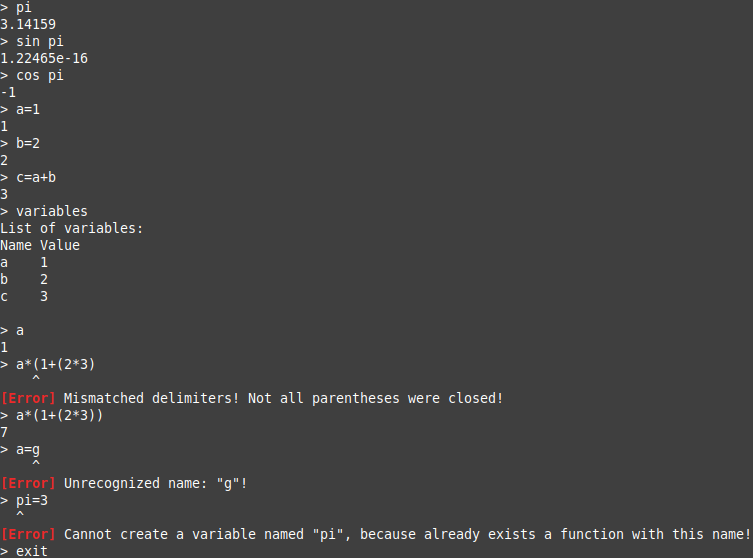
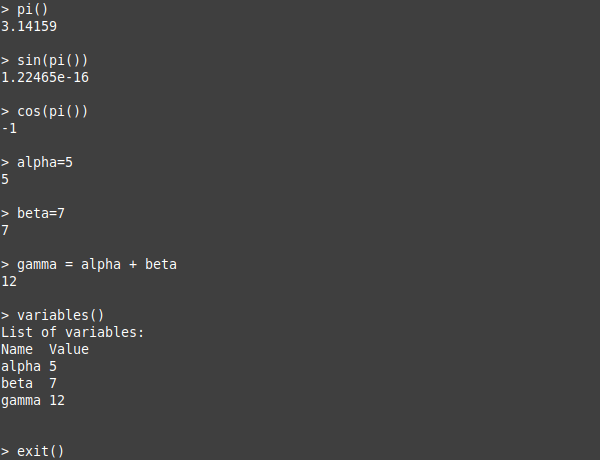
(#9) Requesting that all functions be invoked using parentheses!

Changed region(s): [[0.0, 0.0, 0.66, 0.913], [0.0, 0.9435, 1.0, 1.0], [0.24, 0.5478, 0.3, 0.6087]]

diff --git a/src/parser.c b/src/parser.c
@@ -56,7 +56,7 @@ void destroy_parser(struct Parser *const parser) {
     allocator_delete(&parser->nodes);
 }
 
-int64_t new_node(struct Parser *const parser, const struct Token tok) {
+static int64_t new_node(struct Parser *const parser, const struct Token tok) {
     int64_t index = allocator_new(&parser->nodes);
     struct Token_Node *const node = allocator_get(parser->nodes, index);
     *node = (struct Token_Node){
@@ -113,10 +113,6 @@ static int get_op_precedence(const char op) {
 }
 
 static inline bool check_parser_right_error(struct Parser *const parser, const int64_t previous_idx, const int64_t current_idx) {
-    if (is_invalid_idx(parser, previous_idx) || is_invalid_idx(parser, current_idx)) {
-        print_crash_and_exit("Invalid call to function \"check_parser_right_error()\"!\n");
-        return true;
-    }
     struct Token previous_tok = get_tok(parser, previous_idx);
     struct Token current_tok = get_tok(parser, current_idx);
     if ((previous_tok.type == TOK_NUMBER) || (previous_tok.type == TOK_VARIABLE)) {
@@ -161,7 +157,7 @@ static inline bool check_parser_right_error(struct Parser *const parser, const i
     return false;
 }
 
-bool insert_node_right(struct Parser *const parser, int64_t *const head_idx, const int64_t node_idx) {
+static bool insert_node_right(struct Parser *const parser, int64_t *const head_idx, const int64_t node_idx) {
     if (*head_idx < 0) {
         *head_idx = node_idx;
     } else {
@@ -177,7 +173,7 @@ bool insert_node_right(struct Parser *const parser, int64_t *const head_idx, con
     return false;
 }
 
-bool insert_new_op(struct Parser *const parser, int64_t *const head_idx, const int64_t node_idx, const int64_t max_idx) {
+static inline bool insert_new_op(struct Parser *const parser, int64_t *const head_idx, const int64_t node_idx, const int64_t max_idx) {
     if (*head_idx < 0) {
         *head_idx = node_idx;
     } else {
@@ -205,15 +201,19 @@ bool insert_new_op(struct Parser *const parser, int64_t *const head_idx, const i
     return false;
 }
 
-int64_t parse_parentheses(struct Parser *const parser, size_t *const tk_idx) {
-    if (tk_idx == NULL) {
-        print_crash_and_exit("Invalid call to function \"parse_parentheses()\"!\n");
-        return -1;
-    }
+static int64_t parse_parentheses(struct Parser *const parser, size_t *const tk_idx) {
     int64_t head_idx = -1;
     int64_t last_parentheses_idx = -1;
     while ((*tk_idx < parser->lexer->tokens.size) && (get_lex_tok(parser, *tk_idx)->op != ')')) {
         const struct Token current_token = *get_lex_tok(parser, *tk_idx);
+        if (parser->lexer->tokens.size >= 1) {
+            const struct Token previous_token = *get_lex_tok(parser, (parser->lexer->tokens.size - 1));
+            if (previous_token.type == TOK_FUNCTION) {
+                print_column(current_token.column);
+                print_error("All functions must be followed by parentheses!\n");
+                return -1;
+            }
+        }
         if ((current_token.type == TOK_DELIMITER) && (current_token.op == '(')) {
             (*tk_idx)++;
             if (*tk_idx < parser->lexer->tokens.size) {
@@ -261,6 +261,14 @@ int64_t parse(struct Parser *const parser) {
         print_column(get_lex_tok(parser, tk_idx)->column);
         print_error("Mismatched delimiters! Unexpected closing parentheses!\n");
         return -1;
+    }
+    if ((head_idx >= 0) && (tk_idx == parser->lexer->tokens.size) && (parser->lexer->tokens.size >= 1)) {
+        const struct Token last_token = *get_lex_tok(parser, (parser->lexer->tokens.size - 1));
+        if (last_token.type == TOK_FUNCTION) {
+            print_column(last_token.column);
+            print_error("All functions must be folowed by parentheses!\n");
+            return -1;
+        }
     }
     return head_idx;
 }

diff --git a/src/lex.c b/src/lex.c
@@ -52,13 +52,29 @@ void destroy_lex(struct Lexer *const lexer) {
     allocator_delete(&lexer->tokens);
 }
 
-void add_token(struct Lexer *const lexer, const struct Token tok) {
+static inline struct Token get_token_at(struct Lexer *const lexer, size_t index) {
+    return ((struct Token *)lexer->tokens.data)[index];
+}
+
+// This function returns true if found an error
+static inline bool add_token(struct Lexer *const lexer, const struct Token tok) {
+    // Check for errors
+    const struct Token last_token = ((struct Token *)lexer->tokens.data)[lexer->tokens.size - 1];
+    if (last_token.type == TOK_FUNCTION) {
+        if ((tok.type != TOK_DELIMITER) || (tok.op != '(')) {
+            print_column(tok.column);
+            print_error("Functions must be followed by parentheses \'(\'!\n");
+            return true;
+        }
+    }
+    // Add the token
     int64_t index = allocator_new(&lexer->tokens);
     struct Token *const token = allocator_get(lexer->tokens, index);
     *token = tok;
+    return false;
 }
 
-struct String parse_name(const struct String string) {
+static inline struct String parse_name(const struct String string) {
     int index = 0;
     for (; index < string.length; index++) {
         const char c = string.data[index];
@@ -72,7 +88,7 @@ struct String parse_name(const struct String string) {
     };
 }
 
-void advance_line(struct String *const line, int *const column, const int value) {
+static void advance_line(struct String *const line, int *const column, const int value) {
     line->data += value;
     line->length -= value;
     *column += value;
@@ -123,15 +139,9 @@ int lex(struct Lexer *const lexer, struct String line) {
                         if (lexer->tokens.size == 0) {
                             tok.type = TOK_UNARY_OPERATOR;
                         } else {
-                            const struct Token last_token = ((struct Token *)lexer->tokens.data)[lexer->tokens.size - 1];
-                            if ((last_token.type == TOK_OPERATOR) ||
-                                (last_token.type == TOK_UNARY_OPERATOR) ||
-                                (last_token.type == TOK_DELIMITER)) {
+                            const enum Tok_Types tok_type = get_token_at(lexer, lexer->tokens.size - 1).type;
+                            if ((tok_type == TOK_OPERATOR) || (tok_type == TOK_UNARY_OPERATOR) || (tok_type == TOK_DELIMITER)) {
                                 tok.type = TOK_UNARY_OPERATOR;
-                            } else if ((last_token.type == TOK_FUNCTION) && (functions[last_token.function_index].arity >= 1)) {
-                                tok.type = TOK_UNARY_OPERATOR;
-                                print_column(last_token.column);
-                                print_warning("Consider using parentheses to pass arguments to functions, so ambiguities are avoided!\n");
                             }
                         }
                     }
@@ -152,7 +162,9 @@ int lex(struct Lexer *const lexer, struct String line) {
                 }
             }
         }
-        add_token(lexer, tok);
+        if (add_token(lexer, tok)) {
+            return EXIT_FAILURE;
+        }
     }
     return EXIT_SUCCESS;
 }
@@ -198,7 +210,7 @@ void print_tokens(struct Lexer *const lexer) {
     printf("List of tokens generated by lexical analysis:\n");
     printf("Token     Value\n");
     for (size_t tk_idx = 0; tk_idx < lexer->tokens.size; tk_idx++) {
-        print_token(((struct Token *)lexer->tokens.data)[tk_idx]);
+        print_token(get_token_at(lexer, tk_idx));
     }
     printf("\n");
 }

diff --git a/README.md b/README.md
@@ -8,41 +8,7 @@ This project posseses the following characteristics:
 - Developed with C11;
 - This code was tested only on Linux (compiled with GNU GCC);
 - This code uses a custom meomry allocator based on (slab allocation)[https://en.wikipedia.org/wiki/Slab_allocation];
-- It accepts the following command line arguments:
-    - The option `--help` or `-h` displays the help message;
-    - The option `--token` or `-t` displays the list of tokens generated by lexical analysis at each step;
-    - The option `--ast` or `-a` displays the abstract syntax tree (AST) generated by the parser at each step;
-    - The option `--variable` or `-v` displays the variables list at each step;
-    - The option `--function` or `-f` displays the built-in functions;
-    - The option `--input` or `-i` displays the previous typed lines at each step;
 - All the operations are performed with `double` precision floating point numbers (64 bits);
-- Implemented binary operators:
-    - Adition (`+`);
-    - Subtraction (`-`);
-    - Multiplication (`*`);
-    - Division (`/`);
-    - Exponentiation (`^`);
-- Implemented unary operators:
-    - Minus sign (`-`);
-- Implemented functions:
-    - `exit`: Closes the process;
-    - `clear`: clear all variables from memory;
-    - `variables`: List all current variables;
-    - `functions`: List all built-in functions;
-    - `euler`: Returns the euler constant;
-    - `pi`: Returns the pi constant;
-    - `sqrt`: Returns the square root of it's argument;
-    - `cbrt`: Returns the cubic root of it's argument;
-    - `exp`: Returns the exponential of it's argument;
-    - `ln`: Returns the natural logarithm of it's argument;
-    - `log10`: Returns the logarithm base 10 of it's argument;
-    - `log2`: Returns the logarithm base 2 of it's argument;
-    - `sin`: Returns the sine function of it's argument;
-    - `cos`: Returns the cosine function of it's argument;
-    - `tan`: Returns the tangent function of it's argument;
-    - `asin`: Returns the inverse sine function of it's argument;
-    - `acos`: Returns the inverse cosine function of it's argument;
-    - `atan`: Returns the inverse tangent function of it's argument;
 
 ## Usage
 
